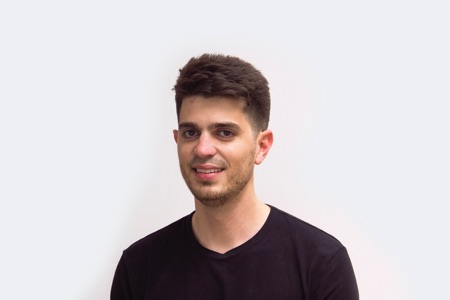
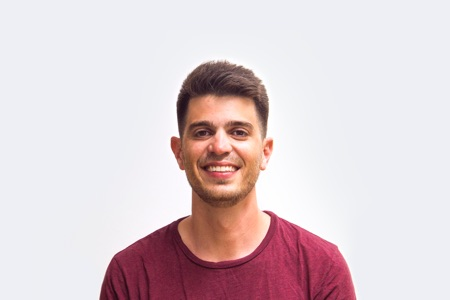
refactor: Update team page
Splitting team by employee and advisors and adding new Javier pic

Changed region(s): [[0.2178, 0.18, 0.8089, 1.0]]

diff --git a/pages/about-travelperk.html b/pages/about-travelperk.html
@@ -18,9 +18,11 @@ id: about
 <section class="team">
   <h2>The TravelPerk team</h2>
 
-  {% assign team_sorted = (site.data.team | sort: 'name') %}
+  {% assign employees = (site.data.team.employees | sort: 'name') %}
+  {% assign advisors = (site.data.team.advisors| sort: 'name') %}
+
   <div class="clearfix">
-    {% for person in team_sorted %}
+    {% for person in employees %}
       <a target="_blank" class="team-member" href="{% if person.linkedin %}{{ person.linkedin }}{% endif %}" {% if person.linkedin == null %}onClick="return false;"{% endif %}>
         <span class="background">
           <img src="/imgs/team/{{ person.image }}" alt="{{ person.name }}"/>
@@ -36,6 +38,26 @@ id: about
         </h4>
         <div class="profile-overlay"></div>
       </a>
+    {% endfor %}
+  </div>
+  <h2>Our Advisors</h2>
+  <div class="clearfix">
+    {% for person in advisors %}
+    <a target="_blank" class="team-member" href="{% if person.linkedin %}{{ person.linkedin }}{% endif %}" {% if person.linkedin == null %}onClick="return false;"{% endif %}>
+        <span class="background">
+          <img src="/imgs/team/{{ person.image }}" alt="{{ person.name }}"/>
+        </span>
+      <h3 class="title">{{ person.name }}</h3>
+      <h4 class="body text-disabled">
+        {{ person.role }}
+        {% if person.linkedin %}
+        <span>View on LinkedIn</span>
+        {% else %}
+        <span>Sorry, I don't have a LinkedIn profile</span>
+        {% endif %}
+      </h4>
+      <div class="profile-overlay"></div>
+    </a>
     {% endfor %}
   </div>
 </section>

diff --git a/_includes/_sass-page/about.scss b/_includes/_sass-page/about.scss
@@ -16,7 +16,7 @@
       background: $c-dark-20;
       display: block;
       content: "\0020";
-      height: 100%;
+      height: 0;
       position: absolute;
       top: 100%;
       left: 0;
@@ -26,6 +26,7 @@
   }
   img {
     vertical-align: bottom;
+    z-index: 1;
   }
   h3,
   h4 {
@@ -47,6 +48,10 @@
     position: relative;
     overflow: hidden;
     width: 100%;
+
+    &:last-of-type {
+      overflow: visible;
+    }
 
     &:hover {
 
@@ -90,6 +95,24 @@
 
   h3 {
     margin-bottom: $spacing-tighter;
+  }
+
+  &:last-of-type {
+    position: relative;
+
+    .background {
+      overflow: visible;
+    }
+    .background:before {
+      display: block;
+      content: "\00a0";
+      background: $c-gray300;
+      height: 100%;
+      position: absolute;
+      left: 100%;
+      width: 400%;
+      z-index: 0;
+    }
   }
 }
 .jobs {
